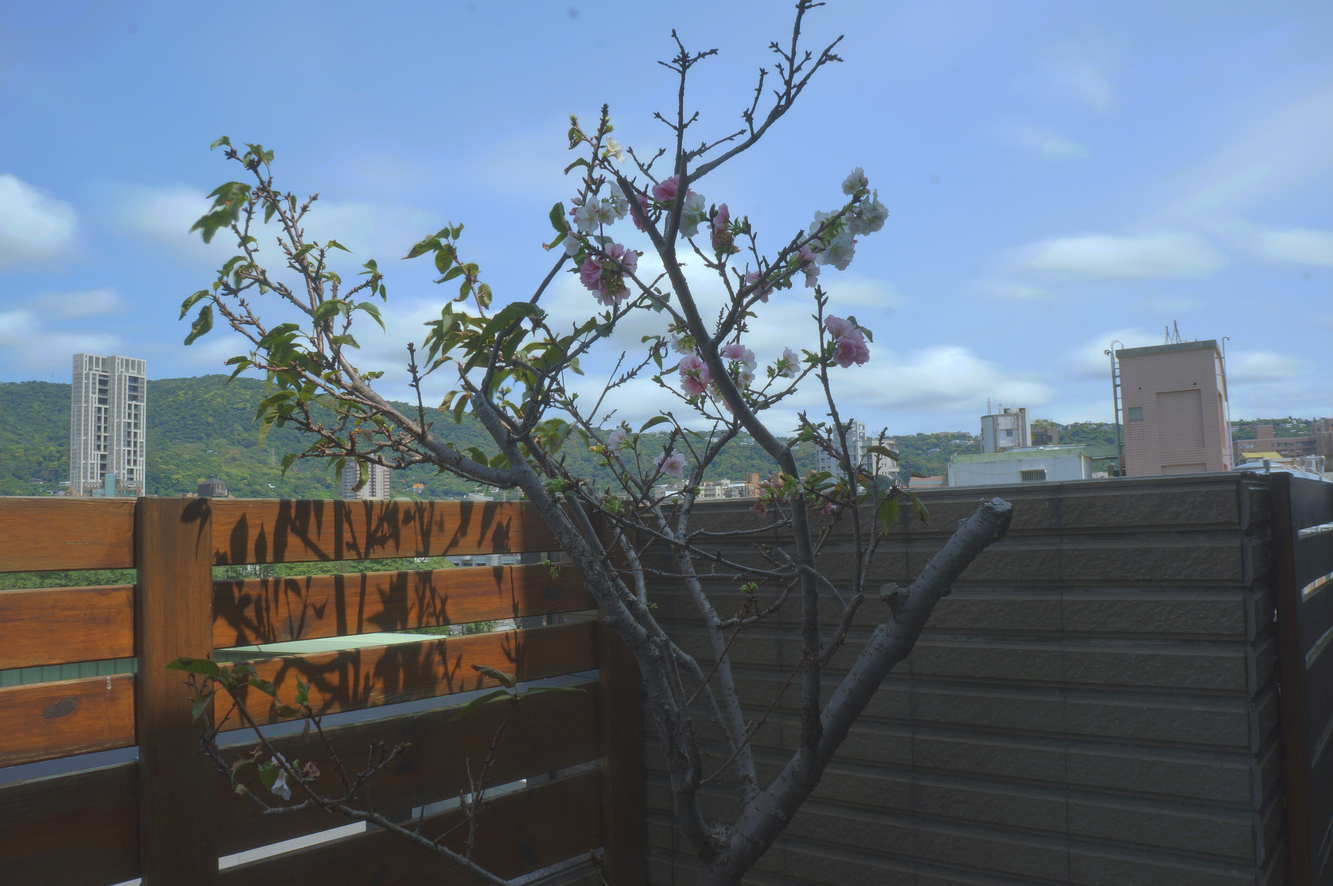
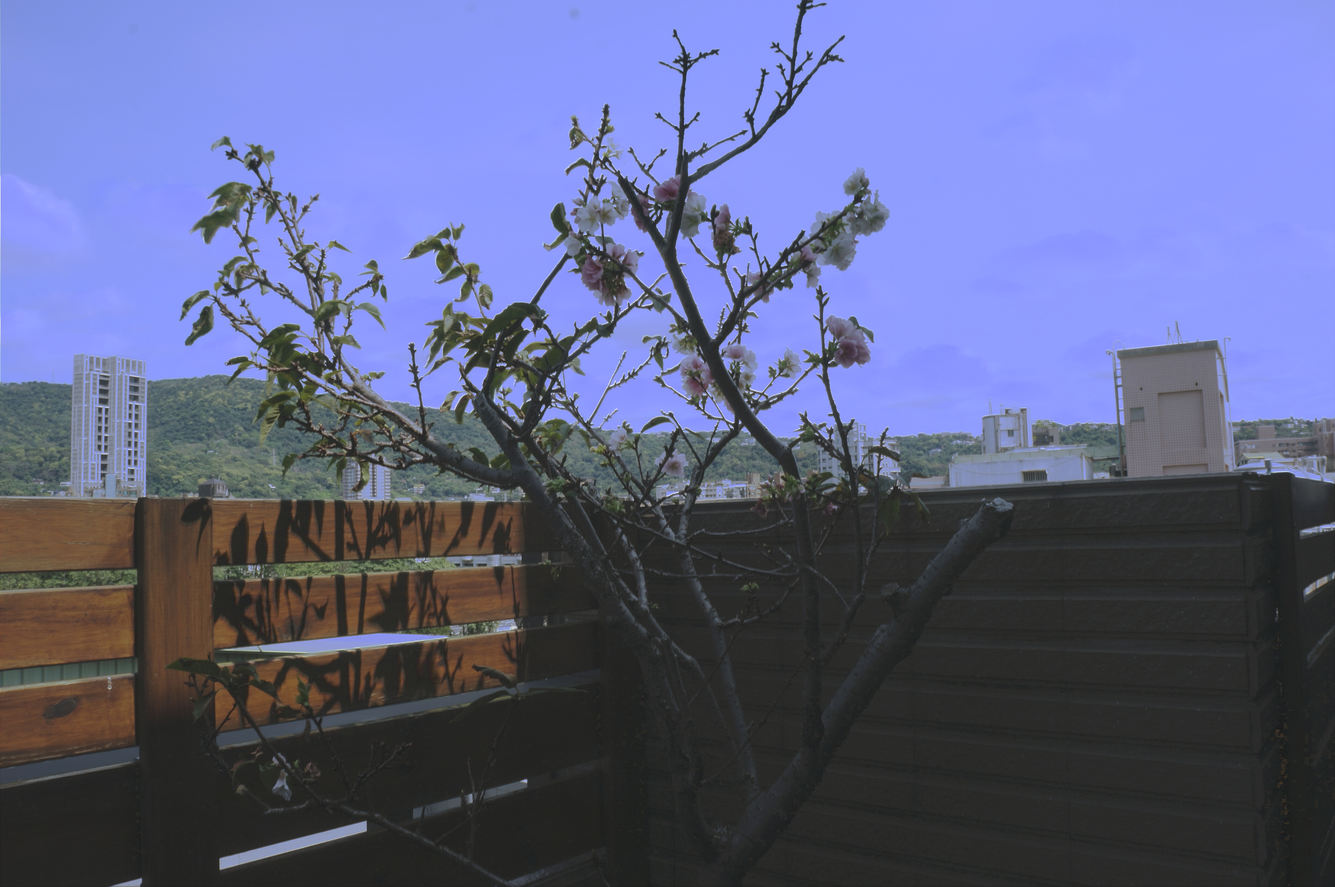
error irr result

diff --git a/hdr/hdr.py b/hdr/hdr.py
@@ -3,6 +3,7 @@ from cv2 import imread
 import numpy as np
 import random
 from scipy import sparse
+import matplotlib.pyplot as plt
 
 
 def hdr(img_List):
@@ -13,72 +14,144 @@ def hdr(img_List):
     g_list=[]
     b_list=[]
     randomlist = []
-    for i in range(50):
+    sample_num=50
+    for i in range(sample_num):
         a = random.randint(1,h*w)
         randomlist.append(a)
-    print(randomlist)
+    #print(randomlist)
     
-    for i in range(0,8):
-        for j in range(50):
+    for i in range(0,sample_num):
+        for j in range(0,len(img_List)):
             # print(List[i])
-            r_list.append(img_List[i][randomlist[j]//h][randomlist[j]%h][2])
+            r_list.append(img_List[j][randomlist[i]//h][randomlist[i]%h][2])
             # print(r_list)
-            g_list.append(img_List[i][randomlist[j]//h][randomlist[j]%h][1])
-            b_list.append(img_List[i][randomlist[j]//h][randomlist[j]%h][0])
+            g_list.append(img_List[j][randomlist[i]//h][randomlist[i]%h][1])
+            b_list.append(img_List[j][randomlist[i]//h][randomlist[i]%h][0])
     
-    row = 50 * 8 + 1 + 254
-    column = 256+ 50
-    matrixA=sparse.csr_matrix((row,column)).toarray()
-    matrixB=sparse.csr_matrix((row,1)).toarray()
 
-    # for i in range(50*8):
-    matrixA[len(r_list),128]=1
-    for i in range(0,len(r_list)):
-        #for j in range(50):
-        j=r_list[i]+1     
-        matrixA[i,j]=1
+    matrixX_r=g_function(sample_num,img_List,r_list)
+    matrixX_g=g_function(sample_num,img_List,g_list)
+    matrixX_b=g_function(sample_num,img_List,b_list)
+    ss = np.array([1/4,1/8,1/16,1/32,1/64,1/128,1/256,1/512])
+    total_weight=np.zeros((img_List[0].shape[0],img_List[0].shape[1],img_List[0].shape[2]))
+    weight=np.zeros((img_List[0].shape[0],img_List[0].shape[1],img_List[0].shape[2]))
+    irr= np.zeros((img_List[0].shape[0],img_List[0].shape[1],img_List[0].shape[2]))
+    irr=irr.astype(np.float32)
+
+    
+    # for i in range (w):
+    #     for j in range (h):
+    #         for k in range (len(img_List)):
+    #             if img_List[k][i][j][2]>127:
+    #                 tmp=(255-img_List[k][i][j][2])*(matrixX[img_List[k][i][j][2]]-np.log(ss[k]))
+    #                 irr[i][j][2]+=tmp
+    #                 tmp_w=(255-img_List[k][i][j][2])
+    #                 total_weight+=tmp_w
+    #                 #print(k," = ",irr[i][j][2])
+    #                 #print(k,"up= ",(255-img_List[k][i][j][2])*(matrixX[img_List[k][i][j][2]]-ss[k]))
+
+    #             else:
+    #                 tmp=((img_List[k][i][j][2]-0)*(matrixX[img_List[k][i][j][2]]-np.log(ss[k])))
+    #                 irr[i][j][2]+=tmp
+    #                 tmp_w=(img_List[k][i][j][2]-0)
+    #                 total_weight+=tmp_w
+    #                 #print(k," = ",irr[i][j][2])
+    #                 #print(k,"up= ",(img_List[k][i][j][2]-0)*(matrixX[img_List[k][i][j][2]]-ss[k]))
+    #     print(irr[i][j][2])
+    #     print(total_weight)
+    #     irr[i][j][2]=irr[i][j][2]/total_weight
+    #     total_weight=0
+
+    
+    for k in range (len(img_List)):
+        weight[:,:,2]=np.where((img_List[k])[:,:,2]<=127,(img_List[k][:,:,2]),(255-img_List[k][:,:,2]))        
+        tmp=weight*(matrixX_r[img_List[k][:,:,2]]-np.log(ss[k]))
+        irr+=tmp
+        total_weight+=weight
+
+    for k in range (len(img_List)):
+        weight[:,:,1]=np.where((img_List[k])[:,:,1]<=127,(img_List[k][:,:,1]),(255-img_List[k][:,:,1]))        
+        tmp=weight*(matrixX_g[img_List[k][:,:,1]]-np.log(ss[k]))
+        irr+=tmp
+        total_weight+=weight
+    
+    for k in range (len(img_List)):
+        weight[:,:,0]=np.where((img_List[k])[:,:,0]<=127,(img_List[k][:,:,0]),(255-img_List[k][:,:,0]))        
+        tmp=weight*(matrixX_b[img_List[k][:,:,0]]-np.log(ss[k]))
+        irr+=tmp
+        total_weight+=weight
         
-
-    for i in range(1,255):
-        j=i
-        matrixA[len(r_list)+i,j-1]=1
-        matrixA[len(r_list)+i,j]=-2
-        matrixA[len(r_list)+i,j+1]=1
-    
-    #print(matrixA[len(r_list)+254][253])
-
-    k=1
-    for i in range(0,len(img_List)):      
-        for j in range(0,50):        
-            matrixA[i*50+j,255+k]=-1
-        k+=1
-
-
-    ss = np.array([1/4,1/8,1/16,1/32,1/64,1/128,1/256,1/512,1/1024])
-    for i in range(0,len(img_List)):
-        for j in range(50):
-            matrixB[i*50+j] = ss[i]
-    #print(matrixB)
-    matrixX=np.linalg.lstsq(matrixA, matrixB , rcond=None)[0][:256]
-    print(matrixX)
-
+    irr[:,:,0]=irr[:,:,0]/total_weight[:,:,0]
+    irr[:,:,1]=irr[:,:,1]/total_weight[:,:,1]
+    irr[:,:,2]=irr[:,:,2]/total_weight[:,:,2]
 
     
-    
-        
-
-
-
-
-       
-
-
+    irr=np.exp(irr)
+    print(np.max(irr))
+    #print(irr)
+    np.save("test.npy",irr)
+    cv2.imwrite("test.jpg",irr)
     return 0
 
 
+def g_function(sample_num,img_List,r_list):
 
 
+    row = sample_num * len(img_List) + 1 + 254
+    column = 256+ sample_num
 
+    matrixA=sparse.csr_matrix((row,column)).toarray()
+    matrixB=sparse.csr_matrix((row,1)).toarray()
+    #print(r_list)
+    for i in range(1,255):
+        j=i
+        if i<=127:
+            matrixA[len(r_list)+i,j-1]=1*(i-0)
+            matrixA[len(r_list)+i,j]=-2*(i-0)
+            matrixA[len(r_list)+i,j+1]=1*(i-0) 
+        else:
+            matrixA[len(r_list)+i,j-1]=1*(255-i)
+            matrixA[len(r_list)+i,j]=-2*(255-i)
+            matrixA[len(r_list)+i,j+1]=1*(255-i)
+    k=0
+    for i in range(0,sample_num):      
+        for j in range(0,len(img_List)): 
+            if matrixA[i*len(img_List)+j,256+k]!=0:
+                print("error")
+            else:
+                matrixA[i*len(img_List)+j,256+k]=-1
+            # print('i=',i*50+j)
+            # print('j=',256+k)
+        k+=1
+        # print(r_list[i])
+        # print('i=',i)
+        # print('j=',j)
+    matrixA[len(r_list),127]=1
+    for i in range(0,len(r_list)):
+        j=r_list[i]   
+        if matrixA[i,j]!=0:
+            print("error")
+        else:
+            matrixA[i,j]=1
+
+    ss = np.array([1/4,1/8,1/16,1/32,1/64,1/128,1/256,1/512])
+    
+    for i in range(0,sample_num):
+        for j in range(len(img_List)):
+            matrixB[i*len(img_List)+j] = ss[j]
+    print(matrixB)
+    matrixX=np.linalg.lstsq(matrixA, matrixB , rcond=None)[0][:256]
+    # print(matrixA)
+    # print(matrixX)
+
+
+    fig=plt.figure()
+    ax=fig.add_subplot(111)
+    ax.plot(matrixX,'g')
+    
+    plt.show()
+
+    return matrixX
 
 
 

diff --git a/README.md b/README.md
@@ -1,1 +1,19 @@
 # HDR
+
+
+1.
+
+
+
+
+
+
+2. Program Usage
+
+cd HDR
+python main.py 
+
+
+main執行時會read data folder裡全部的image
+
+並依序執行alignment hdr tonemapping
